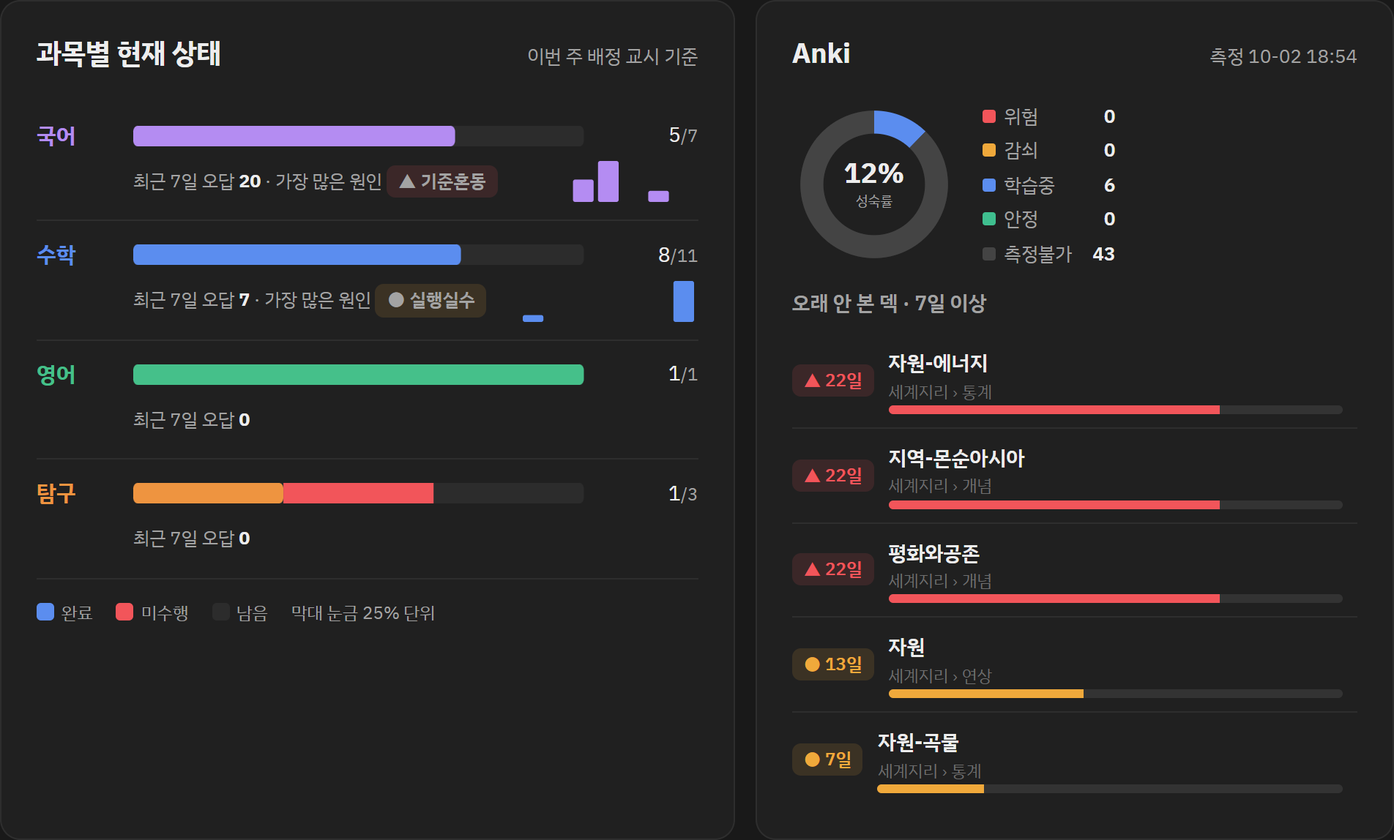
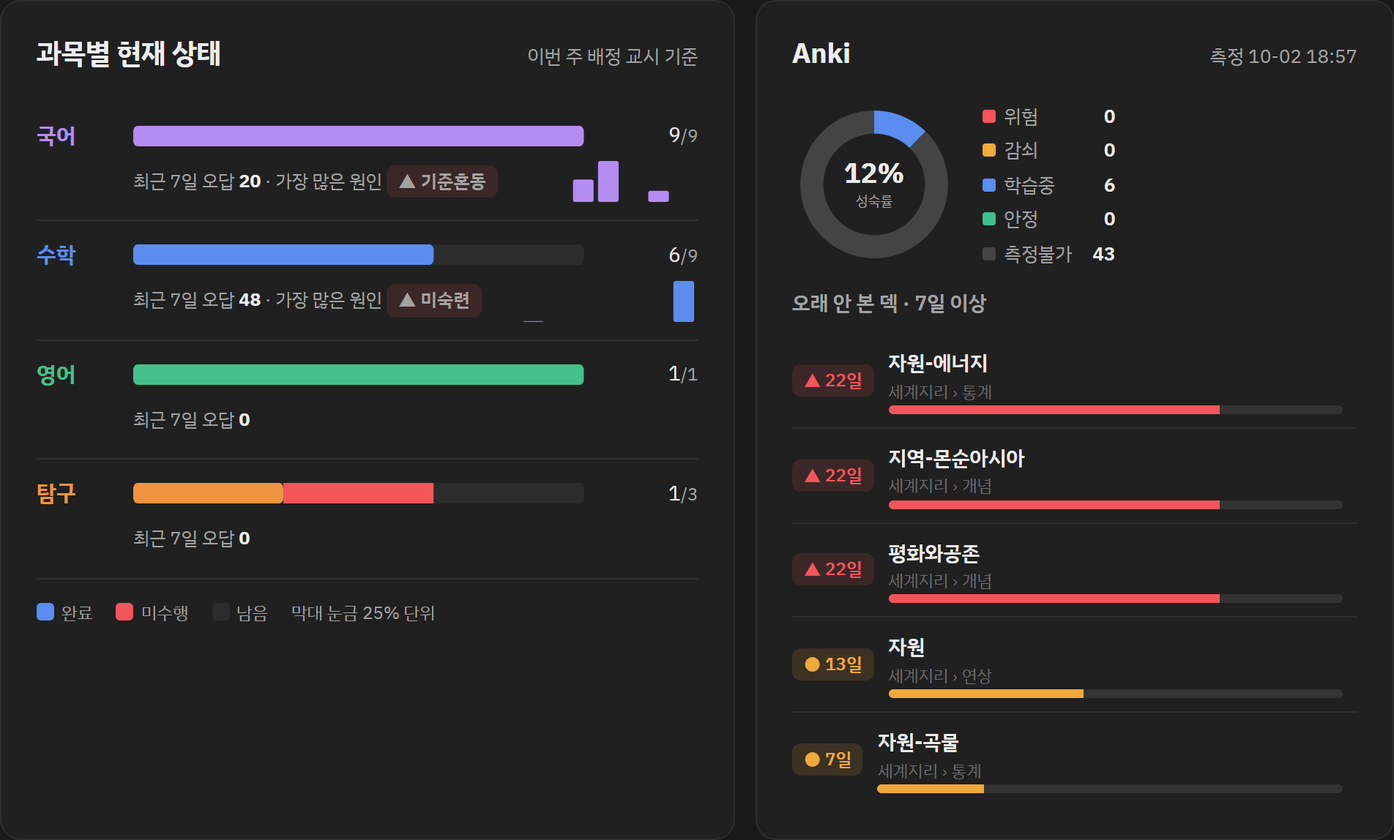
dashboard: D-48 · 완료 0 · 적체 21·저장함 196·주 0/12 · 미코딩 113
- 1차 대기 26 → 37
- 큐 밖 248 → 278

diff --git a/docs/index.html b/docs/index.html
@@ -132,7 +132,7 @@ details.mod>*:last-child{padding-bottom:14px}
   <div class="hud-top">
     <div><div class="dday">D-48</div><div class="dday-s">수능 2026-11-19</div></div>
     <div class="hud-meta">
-      <div>2026-10-02T18:55:20</div>
+      <div>2026-10-02T19:49:35</div>
       <div class="mono">규격 리뉴얼 v1 rev.n · 시간표 v1 rev.e · 2026-09-30</div>
     </div>
   </div>
@@ -334,35 +334,35 @@ details.mod>*:last-child{padding-bottom:14px}
   <span class="bar-n">0<span class="bar-n7">/0</span></span></div>
 </div><div class="card">
   <div class="sc-h"><span class="dot-s" style="background:#bb9af7"></span>
-    <span class="sc-n">수학</span><span class="chip">166행</span><span class="badge muted">미코딩 101</span></div>
+    <span class="sc-n">수학</span><span class="chip">207행</span><span class="badge muted">미코딩 101</span></div>
   <div class="bar-r"><span class="bar-l">시간</span>
   <span class="bar-t"><span class="bar-14" style="width:0.0%"></span>
   <span class="bar-7" style="width:0.0%"></span></span>
-  <span class="bar-n">0<span class="bar-n7">/0</span></span></div><div class="bar-r is-top"><span class="bar-l top"><i class="rk">3</i>조건오독</span>
-  <span class="bar-t"><span class="bar-14" style="width:33.3%"></span>
-  <span class="bar-7" style="width:33.3%"></span></span>
-  <span class="bar-n">1<span class="bar-n7">/1</span></span></div><div class="bar-r"><span class="bar-l">발문오독</span>
+  <span class="bar-n">0<span class="bar-n7">/0</span></span></div><div class="bar-r"><span class="bar-l">조건오독</span>
+  <span class="bar-t"><span class="bar-14" style="width:18.2%"></span>
+  <span class="bar-7" style="width:18.2%"></span></span>
+  <span class="bar-n">4<span class="bar-n7">/4</span></span></div><div class="bar-r"><span class="bar-l">발문오독</span>
   <span class="bar-t"><span class="bar-14" style="width:0.0%"></span>
   <span class="bar-7" style="width:0.0%"></span></span>
   <span class="bar-n">0<span class="bar-n7">/0</span></span></div><div class="bar-r"><span class="bar-l">기준혼동</span>
-  <span class="bar-t"><span class="bar-14" style="width:0.0%"></span>
-  <span class="bar-7" style="width:0.0%"></span></span>
-  <span class="bar-n">0<span class="bar-n7">/0</span></span></div><div class="bar-r is-top"><span class="bar-l top"><i class="rk">2</i>구조</span>
-  <span class="bar-t"><span class="bar-14" style="width:66.7%"></span>
-  <span class="bar-7" style="width:66.7%"></span></span>
-  <span class="bar-n">2<span class="bar-n7">/2</span></span></div><div class="bar-r"><span class="bar-l">개념</span>
-  <span class="bar-t"><span class="bar-14" style="width:33.3%"></span>
-  <span class="bar-7" style="width:33.3%"></span></span>
-  <span class="bar-n">1<span class="bar-n7">/1</span></span></div><div class="bar-r"><span class="bar-l">인출</span>
-  <span class="bar-t"><span class="bar-14" style="width:0.0%"></span>
-  <span class="bar-7" style="width:0.0%"></span></span>
-  <span class="bar-n">0<span class="bar-n7">/0</span></span></div><div class="bar-r"><span class="bar-l">미숙련</span>
-  <span class="bar-t"><span class="bar-14" style="width:0.0%"></span>
-  <span class="bar-7" style="width:0.0%"></span></span>
-  <span class="bar-n">0<span class="bar-n7">/0</span></span></div><div class="bar-r is-top"><span class="bar-l top"><i class="rk">1</i>실행실수</span>
+  <span class="bar-t"><span class="bar-14" style="width:4.5%"></span>
+  <span class="bar-7" style="width:4.5%"></span></span>
+  <span class="bar-n">1<span class="bar-n7">/1</span></span></div><div class="bar-r is-top"><span class="bar-l top"><i class="rk">2</i>구조</span>
+  <span class="bar-t"><span class="bar-14" style="width:40.9%"></span>
+  <span class="bar-7" style="width:40.9%"></span></span>
+  <span class="bar-n">9<span class="bar-n7">/9</span></span></div><div class="bar-r"><span class="bar-l">개념</span>
+  <span class="bar-t"><span class="bar-14" style="width:4.5%"></span>
+  <span class="bar-7" style="width:4.5%"></span></span>
+  <span class="bar-n">1<span class="bar-n7">/1</span></span></div><div class="bar-r is-top"><span class="bar-l top"><i class="rk">3</i>인출</span>
+  <span class="bar-t"><span class="bar-14" style="width:27.3%"></span>
+  <span class="bar-7" style="width:27.3%"></span></span>
+  <span class="bar-n">6<span class="bar-n7">/6</span></span></div><div class="bar-r is-top"><span class="bar-l top"><i class="rk">1</i>미숙련</span>
   <span class="bar-t"><span class="bar-14" style="width:100.0%"></span>
   <span class="bar-7" style="width:100.0%"></span></span>
-  <span class="bar-n">3<span class="bar-n7">/3</span></span></div>
+  <span class="bar-n">22<span class="bar-n7">/22</span></span></div><div class="bar-r"><span class="bar-l">실행실수</span>
+  <span class="bar-t"><span class="bar-14" style="width:22.7%"></span>
+  <span class="bar-7" style="width:22.7%"></span></span>
+  <span class="bar-n">5<span class="bar-n7">/5</span></span></div>
 </div><div class="card">
   <div class="sc-h"><span class="dot-s" style="background:#7dcfff"></span>
     <span class="sc-n">영어</span><span class="chip">22행</span><span class="badge muted">미코딩 8</span></div>
@@ -371,8 +371,8 @@ details.mod>*:last-child{padding-bottom:14px}
   <div class="sc-h"><span class="dot-s" style="background:#e0af68"></span>
     <span class="sc-n">탐구</span><span class="chip">64행</span><span class="badge muted">미코딩 1</span></div>
   <div class="pad"><span class="na">계산불가 · 코드 없음</span></div>
-</div></details><details class="mod"><summary><span class="no">⑤</span>예제 큐<span class="sum">적체 21 · 저장함 196 · 이번 주 12 중 0</span></summary><div class="bar-r"><span class="bar-l">1차 대기</span><span class="bar-t"><span class="bar-14" style="width:100.0%"></span></span><span class="bar-n">26</span></div><div class="bar-r"><span class="bar-l">2차</span><span class="bar-t"><span class="bar-14" style="width:0.0%"></span></span><span class="bar-n">0</span></div><div class="bar-r"><span class="bar-l">해결</span><span class="bar-t"><span class="bar-14" style="width:15.4%"></span></span><span class="bar-n">4</span></div><div class="bar-r"><span class="bar-l">종결</span><span class="bar-t"><span class="bar-14" style="width:0.0%"></span></span><span class="bar-n">0</span></div>
-<div class="kv"><span>큐 밖 (미등록·예제없음)</span><b>248</b></div>
+</div></details><details class="mod"><summary><span class="no">⑤</span>예제 큐<span class="sum">적체 21 · 저장함 196 · 이번 주 12 중 0</span></summary><div class="bar-r"><span class="bar-l">1차 대기</span><span class="bar-t"><span class="bar-14" style="width:100.0%"></span></span><span class="bar-n">37</span></div><div class="bar-r"><span class="bar-l">2차</span><span class="bar-t"><span class="bar-14" style="width:0.0%"></span></span><span class="bar-n">0</span></div><div class="bar-r"><span class="bar-l">해결</span><span class="bar-t"><span class="bar-14" style="width:10.8%"></span></span><span class="bar-n">4</span></div><div class="bar-r"><span class="bar-l">종결</span><span class="bar-t"><span class="bar-14" style="width:0.0%"></span></span><span class="bar-n">0</span></div>
+<div class="kv"><span>큐 밖 (미등록·예제없음)</span><b>278</b></div>
 <div class="kv"><span>적체 (예제 배정일 도래 · 미해결)</span><b>21</b></div>
 <div class="kv"><span>저장함 / 이번 주 (완료 0)</span>
   <b class="ok">196 / 12</b></div>
@@ -392,6 +392,6 @@ details.mod>*:last-child{padding-bottom:14px}
   <span class="sk-n"><span class="nd lv" style="opacity:0.56" title="Ⅱ 자연환경 — 기후(쾨펜) · 숙련도 1 개념만"></span><span class="nd un" title="Ⅲ 인문환경 — 문화·종교 · 숙련도 미판정"></span><span class="nd lv" style="opacity:0.56" title="Ⅰ 세계화와 지역 이해 · 숙련도 1 개념만"></span><span class="nd lv" style="opacity:0.56" title="Ⅴ 건조 아시아와 북부 아프리카 · 숙련도 1 개념만"></span><span class="nd lv" style="opacity:0.56" title="Ⅲ 인문환경 — 자원(에너지) · 숙련도 1 개념만"></span><span class="nd lv" style="opacity:0.56" title="Ⅱ 자연환경 — 지형 · 숙련도 1 개념만"></span><span class="nd un" title="Ⅲ 인문환경 — 인구 · 숙련도 미판정"></span><span class="nd lv" style="opacity:0.56" title="Ⅶ 사하라 이남 아프리카와 중·남부 아메리카 · 숙련도 1 개념만"></span><span class="nd lv" style="opacity:0.56" title="Ⅳ 몬순 아시아와 오세아니아 · 숙련도 1 개념만"></span><span class="nd lv" style="opacity:0.56" title="Ⅲ 인문환경 — 자원(가축) · 숙련도 1 개념만"></span><span class="nd lv" style="opacity:0.56" title="Ⅲ 인문환경 — 자원(곡물) · 숙련도 1 개념만"></span><span class="nd un" title="Ⅷ 공존과 평화의 세계 · 숙련도 미판정"></span><span class="nd un" title="Ⅲ 인문환경 — 도시 · 숙련도 미판정"></span><span class="nd lv" style="opacity:0.56" title="Ⅵ 유럽과 북부 아메리카 · 숙련도 1 개념만"></span><span class="nd un" title="세지 02 세계의 자연환경과 인간 생활 · 숙련도 미판정"></span><span class="nd un" title="세지 03 세계의 인문환경과 인문 경관 · 숙련도 미판정"></span><span class="nd un" title="세지 05 건조 아시아와 북부 아프리카 · 숙련도 미판정"></span><span class="nd un" title="세지 04 몬순 아시아와 오세아니아 · 숙련도 미판정"></span><span class="nd un" title="세지 06 유럽과 북부 아메리카 · 숙련도 미판정"></span><span class="nd un" title="세지 07 사하라 이남 아프리카와 중·남부 아메리카 · 숙련도 미판정"></span><span class="nd un" title="세지 08 공존과 평화의 세계 · 숙련도 미판정"></span><span class="nd un" title="세지 01 세계화와 지역 이해 · 숙련도 미판정"></span></span></div><div class="sk-r"><span class="sk-l"><span class="dot-s"
   style="background:#bb9af7"></span>수학
   <span class="chip">28</span></span>
-  <span class="sk-n"><span class="nd un" title="01 문제 해결의 절차 · 숙련도 미판정"></span><span class="nd lv0" title="24강 일반론 인식하기 【게이트】 · 숙련도 0 미접촉"></span><span class="nd lv0" title="17강 Apply — 수열의 극한·무한급수 · 숙련도 0 미접촉"></span><span class="nd un" title="02 식에 대하여 · 숙련도 미판정"></span><span class="nd lv0" title="21강 Apply — 변곡점과 이계도함수 · 숙련도 0 미접촉"></span><span class="nd lv0" title="19강 Apply — 미분법과 연결성 · 숙련도 0 미접촉"></span><span class="nd un" title="05 함수합성 · 숙련도 미판정"></span><span class="nd un" title="14 모양일치와 값만 구하기 · 숙련도 미판정"></span><span class="nd lv0" title="26강 Apply 51~62번 · 숙련도 0 미접촉"></span><span class="nd un" title="10 부등식 · 숙련도 미판정"></span><span class="nd un" title="15 식 생성과 식 정리 · 숙련도 미판정"></span><span class="nd un" title="04 그래프 기본기 · 숙련도 미판정"></span><span class="nd un" title="13 목적 — 항등식·자정 · 숙련도 미판정"></span><span class="nd lv0" title="18강 Apply — 덧셈정리·함수의 극한 · 숙련도 0 미접촉"></span><span class="nd lv0" title="20강 Apply — 극대극소 · 숙련도 0 미접촉"></span><span class="nd un" title="09 함수 · 숙련도 미판정"></span><span class="nd un" title="08 항등식 · 숙련도 미판정"></span><span class="nd un" title="12 목적 (1) · 숙련도 미판정"></span><span class="nd un" title="07 방정식 · 숙련도 미판정"></span><span class="nd lv0" title="25강 Apply 43~50번 · 숙련도 0 미접촉"></span><span class="nd un" title="06 새로운 함수 · 숙련도 미판정"></span><span class="nd un" title="03 식 생성 · 숙련도 미판정"></span><span class="nd un" title="11 수열과 자연수·정수 · 숙련도 미판정"></span><span class="nd lv0" title="22강 Apply — 적분과 거리 · 숙련도 0 미접촉"></span><span class="nd un" title="16 연속과 미분 가능 · 숙련도 미판정"></span><span class="nd lv0" title="23강 Apply — 정적분 · 숙련도 0 미접촉"></span><span class="nd lv0" title="27강 Apply 63~75번 · 숙련도 0 미접촉"></span><span class="nd lv" style="opacity:0.56" title="삼각함수 활용 (도형) · 숙련도 1 개념만"></span></span></div></details><details class="mod"><summary><span class="no">⑧</span>실모 · Anki<span class="sum">실모 0회</span></summary><div class="kv"><span>이번 주 실모</span><b>0회</b></div><div class="kv"><span>Anki due · 17.5초/장</span><b><b>179</b>장 <span class="tail">≈ 52분</span></b></div></details>
-<footer class="note"><a href="trend.html">추세 &rarr;</a> &middot; Exam OS 스테이터스 · 2026-10-02T18:55:20 생성 · 규격 리뉴얼 v1 rev.n · 시간표 v1 rev.e · 2026-09-30 · 값은 전부 Notion 실측이며 추정치는 없습니다. ④ 약점은 ERRORLOG 4종, ⑤ 예제 지표는 3종(watch·accounting과 동일 분모) 기준입니다. ⑨는 설계 §2 표 이후 추가된 모듈이라 번호는 뒤지만 자리는 폴드 위입니다(09-06).</footer>
+  <span class="sk-n"><span class="nd un" title="01 문제 해결의 절차 · 숙련도 미판정"></span><span class="nd lv0" title="24강 일반론 인식하기 【게이트】 · 숙련도 0 미접촉"></span><span class="nd lv0" title="17강 Apply — 수열의 극한·무한급수 · 숙련도 0 미접촉"></span><span class="nd un" title="02 식에 대하여 · 숙련도 미판정"></span><span class="nd lv0" title="21강 Apply — 변곡점과 이계도함수 · 숙련도 0 미접촉"></span><span class="nd lv0" title="19강 Apply — 미분법과 연결성 · 숙련도 0 미접촉"></span><span class="nd un" title="05 함수합성 · 숙련도 미판정"></span><span class="nd un" title="14 모양일치와 값만 구하기 · 숙련도 미판정"></span><span class="nd lv0" title="26강 Apply 51~62번 · 숙련도 0 미접촉"></span><span class="nd un" title="10 부등식 · 숙련도 미판정"></span><span class="nd un" title="15 식 생성과 식 정리 · 숙련도 미판정"></span><span class="nd un" title="04 그래프 기본기 · 숙련도 미판정"></span><span class="nd un" title="13 목적 — 항등식·자정 · 숙련도 미판정"></span><span class="nd lv0" title="18강 Apply — 덧셈정리·함수의 극한 · 숙련도 0 미접촉"></span><span class="nd lv0" title="20강 Apply — 극대극소 · 숙련도 0 미접촉"></span><span class="nd un" title="09 함수 · 숙련도 미판정"></span><span class="nd un" title="08 항등식 · 숙련도 미판정"></span><span class="nd un" title="12 목적 (1) · 숙련도 미판정"></span><span class="nd un" title="07 방정식 · 숙련도 미판정"></span><span class="nd lv0" title="25강 Apply 43~50번 · 숙련도 0 미접촉"></span><span class="nd un" title="06 새로운 함수 · 숙련도 미판정"></span><span class="nd un" title="03 식 생성 · 숙련도 미판정"></span><span class="nd un" title="11 수열과 자연수·정수 · 숙련도 미판정"></span><span class="nd lv0" title="22강 Apply — 적분과 거리 · 숙련도 0 미접촉"></span><span class="nd un" title="16 연속과 미분 가능 · 숙련도 미판정"></span><span class="nd lv0" title="23강 Apply — 정적분 · 숙련도 0 미접촉"></span><span class="nd lv0" title="27강 Apply 63~75번 · 숙련도 0 미접촉"></span><span class="nd lv" style="opacity:0.56" title="삼각함수 활용 (도형) · 숙련도 1 개념만"></span></span></div></details><details class="mod"><summary><span class="no">⑧</span>실모 · Anki<span class="sum">실모 0회</span></summary><div class="kv"><span>이번 주 실모</span><b>0회</b></div><div class="kv"><span>Anki due · 17.5초/장</span><b><b>152</b>장 <span class="tail">≈ 44분</span></b></div></details>
+<footer class="note"><a href="trend.html">추세 &rarr;</a> &middot; Exam OS 스테이터스 · 2026-10-02T19:49:35 생성 · 규격 리뉴얼 v1 rev.n · 시간표 v1 rev.e · 2026-09-30 · 값은 전부 Notion 실측이며 추정치는 없습니다. ④ 약점은 ERRORLOG 4종, ⑤ 예제 지표는 3종(watch·accounting과 동일 분모) 기준입니다. ⑨는 설계 §2 표 이후 추가된 모듈이라 번호는 뒤지만 자리는 폴드 위입니다(09-06).</footer>
 </div></body></html>

diff --git a/docs/home.html b/docs/home.html
@@ -94,11 +94,11 @@ white-space:nowrap;overflow:hidden;text-overflow:ellipsis}
 .none{flex:1;padding:6px 0}}
 </style></head><body><div class="wrap">
 <p class="foot"><a href="index.html" target="_blank" rel="noopener" style="color:inherit">⑨ 방법론 학습 상태 &rarr;</a></p>
-<section class="card"><div class="ch"><h2>주간 목표 · 9/28 – 10/3</h2><span class="num">완료 4/12</span></div><div class="goals"><div class="gr gh"><span></span><span>월</span><span>화</span><span>수</span><span>목</span><span>금</span><span>토</span><span></span></div><div class="gr" style="--c:#0a84ff"><p><b>4공법 Anki 25 + 백지 인출 25 + …</b><small>수학</small></p><i class="d done"></i><i class="d done"></i><i class="d done"></i><i class="d unk"></i><i class="d done"></i><i class="d "></i><span class="num">4/5</span></div><div class="gr" style="--c:#0a84ff"><p><b>코어테마 미적분</b><small>수학</small></p><i class="d done"></i><i class="d done"></i><i class="d done"></i><i class="d unk"></i><i class="d done"></i><i class="d "></i><span class="num">4/5</span></div><div class="gr" style="--c:#af52de"><p><b>국어 몰아하기 — 문학 도약 잔여 11강(수필…</b><small>국어</small></p><i class="d done"></i><i class="d done"></i><i class="d "></i><i class="d unk"></i><i class="d done"></i><i class="d "></i><span class="num">3/4</span></div><div class="gr" style="--c:#af52de"><p><b>국어 몰아하기 — 이어서</b><small>국어</small></p><i class="d done"></i><i class="d "></i><i class="d "></i><i class="d unk"></i><i class="d "></i><i class="d "></i><span class="num">1/2</span></div><div class="gr" style="--c:#8e8e93"><p><b>예제</b><small>공통</small></p><i class="d done"></i><i class="d done"></i><i class="d "></i><i class="d unk"></i><i class="d "></i><i class="d "></i><span class="num">2/3</span></div><div class="gr" style="--c:#ff9500"><p><b>사회문화 루틴 — 나르샤 테마 + 방법론</b><small>사문</small></p><i class="d "></i><i class="d "></i><i class="d miss"></i><i class="d "></i><i class="d "></i><i class="d "></i><span class="num">0/1</span></div><div class="gr" style="--c:#0a84ff"><p><b>약점 보완 ① 정재일 실모 채점·오답 분석</b><small>수학</small></p><i class="d "></i><i class="d "></i><i class="d "></i><i class="d "></i><i class="d "></i><i class="d plan"></i><span class="num">0/1</span></div><div class="gr" style="--c:#ff9500"><p><b>약점 보완 ② 사회문화 방법론</b><small>사문</small></p><i class="d "></i><i class="d "></i><i class="d "></i><i class="d "></i><i class="d "></i><i class="d plan"></i><span class="num">0/1</span></div><div class="gr fin" style="--c:#af52de"><p><b>✓ 판단 훈련 — 시험 전 한 장 시트 읽고 고전…</b><small>국어</small></p><i class="d "></i><i class="d done"></i><i class="d "></i><i class="d "></i><i class="d "></i><i class="d "></i><span class="num">1/1</span></div><div class="gr fin" style="--c:#ff9500"><p><b>✓ 세계지리 — 전수검사 105장 → 기출분석 강…</b><small>탐구</small></p><i class="d "></i><i class="d "></i><i class="d done"></i><i class="d "></i><i class="d "></i><i class="d "></i><span class="num">1/1</span></div><div class="gr fin" style="--c:#30b158"><p><b>✓ 영어 루틴 — 김동하 강의</b><small>영어</small></p><i class="d "></i><i class="d "></i><i class="d "></i><i class="d "></i><i class="d done"></i><i class="d "></i><span class="num">1/1</span></div><div class="gr fin" style="--c:#8e8e93"><p><b>✓ 실모</b><small>공통</small></p><i class="d "></i><i class="d "></i><i class="d "></i><i class="d "></i><i class="d done"></i><i class="d "></i><span class="num">1/1</span></div></div></section>
-<section class="card"><h2>과목별 현재 상태</h2><div class="subj"><div class="sj" style="--c:#af52de"><b>국어</b><div class="sb"><i class="ok" style="width:71%"></i><i class="ms" style="width:0%"></i></div><span class="num">5/7</span><small>오답 7일 20 · 최다 「기준혼동」</small></div><div class="sj" style="--c:#0a84ff"><b>수학</b><div class="sb"><i class="ok" style="width:73%"></i><i class="ms" style="width:0%"></i></div><span class="num">8/11</span><small>오답 7일 7 · 최다 「실행실수」</small></div><div class="sj" style="--c:#30b158"><b>영어</b><div class="sb"><i class="ok" style="width:100%"></i><i class="ms" style="width:0%"></i></div><span class="num">1/1</span><small>오답 7일 0</small></div><div class="sj" style="--c:#ff9500"><b>탐구</b><div class="sb"><i class="ok" style="width:33%"></i><i class="ms" style="width:33%"></i></div><span class="num">1/3</span><small>오답 7일 0</small></div></div><p class="key"><i class="k ok"></i>완료 <i class="k ms"></i>미수행 <i class="k"></i>남음 · 이번 주 배정 교시 기준</p></section>
-<section class="card"><h2>Anki</h2><div class="pace"><div class="tile"><b class="num">179</b><span>오늘 복습 · ≈52분</span></div><div class="tile"><b class="num">12%</b><span>성숙률 (21일+)</span></div><div class="tile"><b class="num">49</b><span>덱</span></div></div><p class="key">학습중 6 · 측정불가 43</p><div class="stale"><strong>⚠ 7일 넘게 안 본 덱 5개</strong><ul><li><b>자원-에너지</b><small>세계지리::통계</small><span class="num">22일</span></li><li><b>지역-몬순아시아</b><small>세계지리::개념</small><span class="num">22일</span></li><li><b>평화와공존</b><small>세계지리::개념</small><span class="num">22일</span></li><li><b>자원</b><small>세계지리::연상</small><span class="num">13일</span></li><li><b>자원-곡물</b><small>세계지리::통계</small><span class="num">7일</span></li></ul></div><p class="key">측정 10-02 18:54</p></section>
+<section class="card"><div class="ch"><h2>주간 목표 · 9/28 – 10/3</h2><span class="num">완료 8/14</span></div><div class="goals"><div class="gr gh"><span></span><span>월</span><span>화</span><span>수</span><span>목</span><span>금</span><span>토</span><span></span></div><div class="gr" style="--c:#0a84ff"><p><b>4공법 Anki 25 + 백지 인출 25 + …</b><small>수학</small></p><i class="d done"></i><i class="d "></i><i class="d done"></i><i class="d unk"></i><i class="d done"></i><i class="d "></i><span class="num">3/4</span></div><div class="gr" style="--c:#0a84ff"><p><b>코어테마 미적분</b><small>수학</small></p><i class="d done"></i><i class="d "></i><i class="d done"></i><i class="d unk"></i><i class="d done"></i><i class="d "></i><span class="num">3/4</span></div><div class="gr" style="--c:#8e8e93"><p><b>예제</b><small>공통</small></p><i class="d done"></i><i class="d done"></i><i class="d "></i><i class="d unk"></i><i class="d "></i><i class="d "></i><span class="num">2/3</span></div><div class="gr" style="--c:#ff9500"><p><b>사회문화 루틴 — 나르샤 테마 + 방법론</b><small>사문</small></p><i class="d "></i><i class="d "></i><i class="d miss"></i><i class="d "></i><i class="d "></i><i class="d "></i><span class="num">0/1</span></div><div class="gr" style="--c:#0a84ff"><p><b>약점 보완 ① 정재일 실모 채점·오답 분석</b><small>수학</small></p><i class="d "></i><i class="d "></i><i class="d "></i><i class="d "></i><i class="d "></i><i class="d plan"></i><span class="num">0/1</span></div><div class="gr" style="--c:#ff9500"><p><b>약점 보완 ② 사회문화 방법론</b><small>사문</small></p><i class="d "></i><i class="d "></i><i class="d "></i><i class="d "></i><i class="d "></i><i class="d plan"></i><span class="num">0/1</span></div><div class="gr fin" style="--c:#af52de"><p><b>✓ 국어 몰아하기 — 문학 도약 잔여 11강(수필…</b><small>국어</small></p><i class="d done"></i><i class="d done"></i><i class="d "></i><i class="d done"></i><i class="d done"></i><i class="d "></i><span class="num">4/4</span></div><div class="gr fin" style="--c:#af52de"><p><b>✓ 국어 몰아하기 — 이어서</b><small>국어</small></p><i class="d done"></i><i class="d "></i><i class="d "></i><i class="d done"></i><i class="d "></i><i class="d "></i><span class="num">2/2</span></div><div class="gr fin" style="--c:#af52de"><p><b>✓ Anki 문학·독서덱</b><small>국어</small></p><i class="d "></i><i class="d done"></i><i class="d "></i><i class="d "></i><i class="d "></i><i class="d "></i><span class="num">1/1</span></div><div class="gr fin" style="--c:#af52de"><p><b>✓ 국어 몰아하기</b><small>국어</small></p><i class="d "></i><i class="d done"></i><i class="d "></i><i class="d "></i><i class="d "></i><i class="d "></i><span class="num">1/1</span></div><div class="gr fin" style="--c:#af52de"><p><b>✓ 판단 훈련 — 시험 전 한 장 시트 읽고 고전…</b><small>국어</small></p><i class="d "></i><i class="d done"></i><i class="d "></i><i class="d "></i><i class="d "></i><i class="d "></i><span class="num">1/1</span></div><div class="gr fin" style="--c:#ff9500"><p><b>✓ 세계지리 — 전수검사 105장 → 기출분석 강…</b><small>탐구</small></p><i class="d "></i><i class="d "></i><i class="d done"></i><i class="d "></i><i class="d "></i><i class="d "></i><span class="num">1/1</span></div><div class="gr fin" style="--c:#30b158"><p><b>✓ 영어 루틴 — 김동하 강의</b><small>영어</small></p><i class="d "></i><i class="d "></i><i class="d "></i><i class="d "></i><i class="d done"></i><i class="d "></i><span class="num">1/1</span></div><div class="gr fin" style="--c:#8e8e93"><p><b>✓ 실모</b><small>공통</small></p><i class="d "></i><i class="d "></i><i class="d "></i><i class="d "></i><i class="d done"></i><i class="d "></i><span class="num">1/1</span></div></div></section>
+<section class="card"><h2>과목별 현재 상태</h2><div class="subj"><div class="sj" style="--c:#af52de"><b>국어</b><div class="sb"><i class="ok" style="width:100%"></i><i class="ms" style="width:0%"></i></div><span class="num">9/9</span><small>오답 7일 20 · 최다 「기준혼동」</small></div><div class="sj" style="--c:#0a84ff"><b>수학</b><div class="sb"><i class="ok" style="width:67%"></i><i class="ms" style="width:0%"></i></div><span class="num">6/9</span><small>오답 7일 48 · 최다 「미숙련」</small></div><div class="sj" style="--c:#30b158"><b>영어</b><div class="sb"><i class="ok" style="width:100%"></i><i class="ms" style="width:0%"></i></div><span class="num">1/1</span><small>오답 7일 0</small></div><div class="sj" style="--c:#ff9500"><b>탐구</b><div class="sb"><i class="ok" style="width:33%"></i><i class="ms" style="width:33%"></i></div><span class="num">1/3</span><small>오답 7일 0</small></div></div><p class="key"><i class="k ok"></i>완료 <i class="k ms"></i>미수행 <i class="k"></i>남음 · 이번 주 배정 교시 기준</p></section>
+<section class="card"><h2>Anki</h2><div class="pace"><div class="tile"><b class="num">179</b><span>오늘 복습 · ≈52분</span></div><div class="tile"><b class="num">12%</b><span>성숙률 (21일+)</span></div><div class="tile"><b class="num">49</b><span>덱</span></div></div><p class="key">학습중 6 · 측정불가 43</p><div class="stale"><strong>⚠ 7일 넘게 안 본 덱 5개</strong><ul><li><b>자원-에너지</b><small>세계지리::통계</small><span class="num">22일</span></li><li><b>지역-몬순아시아</b><small>세계지리::개념</small><span class="num">22일</span></li><li><b>평화와공존</b><small>세계지리::개념</small><span class="num">22일</span></li><li><b>자원</b><small>세계지리::연상</small><span class="num">13일</span></li><li><b>자원-곡물</b><small>세계지리::통계</small><span class="num">7일</span></li></ul></div><p class="key">측정 10-02 18:57</p></section>
 <section class="card"><div class="hero"><b class="num">D-48</b>
 <div class="sub"><strong>목표 레이스</strong>9/5 출발 · 75일 중 27일째</div></div>
 <svg viewBox="0 0 600 96" role="img" aria-label="수능까지 구간 레이스 — 오늘 위치"><rect x="14" y="50" width="558" height="10" rx="5" fill="var(--track)"/><rect x="14.0" y="50" width="117.0" height="10" rx="5" fill="var(--done)"/><circle cx="73.5" cy="80" r="9" fill="var(--tile)"/><text x="73.5" y="84" font-size="11" font-weight="700" text-anchor="middle" fill="var(--ink2)">1</text><rect x="133.0" y="50" width="102.2" height="10" rx="5" fill="var(--acc2)"/><rect x="133.0" y="50" width="81.8" height="10" rx="5" fill="var(--acc)"/><circle cx="185.1" cy="80" r="9" fill="var(--acc)"/><text x="185.1" y="84" font-size="11" font-weight="700" text-anchor="middle" fill="#fff">2</text><circle cx="293.0" cy="80" r="9" fill="var(--tile)"/><text x="293.0" y="84" font-size="11" font-weight="700" text-anchor="middle" fill="var(--ink2)">3</text><circle cx="374.8" cy="80" r="9" fill="var(--tile)"/><text x="374.8" y="84" font-size="11" font-weight="700" text-anchor="middle" fill="var(--ink2)">4</text><circle cx="415.8" cy="80" r="9" fill="var(--tile)"/><text x="415.8" y="84" font-size="11" font-weight="700" text-anchor="middle" fill="var(--ink2)">5</text><circle cx="501.3" cy="80" r="9" fill="var(--tile)"/><text x="501.3" y="84" font-size="11" font-weight="700" text-anchor="middle" fill="var(--ink2)">6</text><rect x="574" y="32" width="4" height="4" fill="var(--ink)"/><rect x="582" y="32" width="4" height="4" fill="var(--ink)"/><rect x="578" y="36" width="4" height="4" fill="var(--ink)"/><line x1="574" y1="32" x2="574" y2="60" stroke="var(--ink)" stroke-width="1.5"/><text x="586" y="26" font-size="12" font-weight="700" text-anchor="end" fill="var(--ink)">수능 11/19</text><rect x="192.9" y="6" width="44" height="22" rx="11" fill="var(--acc)"/><text x="214.9" y="21" font-size="12" font-weight="700" text-anchor="middle" fill="#fff">오늘</text><line x1="214.9" y1="28" x2="214.9" y2="50" stroke="var(--acc)" stroke-width="2"/><circle cx="214.9" cy="55" r="8" fill="var(--acc)" stroke="var(--card)" stroke-width="3"/></svg><ol class="legend"><li><i>1</i>기본기 마무리<small class="num">9/5</small></li><li class=on><i>2</i>공략법 착수<small class="num">9/21</small></li><li><i>3</i>연습<small class="num">10/5</small></li><li><i>4</i>국어 3축 완료<small class="num">10/20</small></li><li><i>5</i>0교시 개시<small class="num">10/27</small></li><li><i>6</i>실전만<small class="num">10/31</small></li></ol><div class="lap"><strong>2구간 · 공략법 착수</strong><span class="num">9/21 – 10/4 · 12/14일 · 2일 남음</span></div><div class="bar"><i style="width:86%"></i></div><div class="crit"><div class="row"><p>외운 방법론을 실제 문항에 적용하는 훈련</p><div class="tag">기록으로 재지 않는 목표</div></div><div class="row"><p>수학 &#x27;시간&#x27; 코드 주 3건 이하</p><div class="meter"><span class="v" style="color:var(--good)">이번 주 0건 / 한도 3</span><div class="t"></div><div class="lim" style="left:50.0%"></div><div class="dot" style="left:0.0%;background:var(--good)"></div></div></div></div></section>
-<p class="foot num">자동 갱신 10-02 18:56</p>
+<p class="foot num">자동 갱신 10-02 19:50</p>
 </div></body></html>
